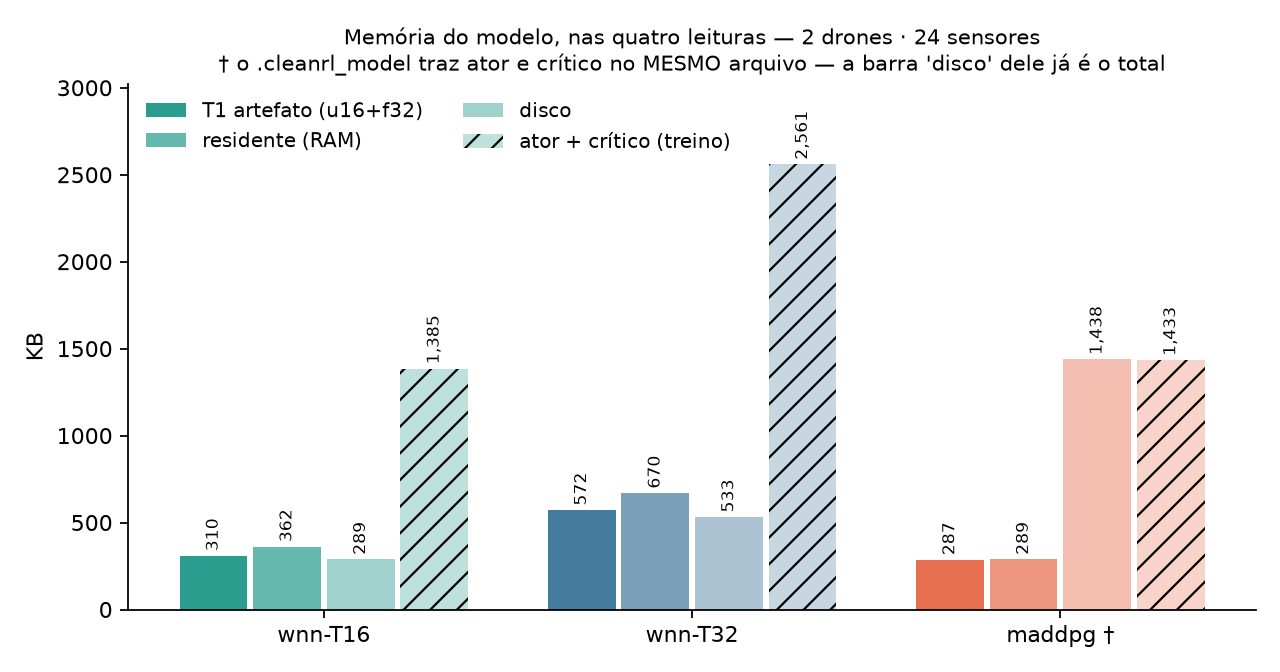
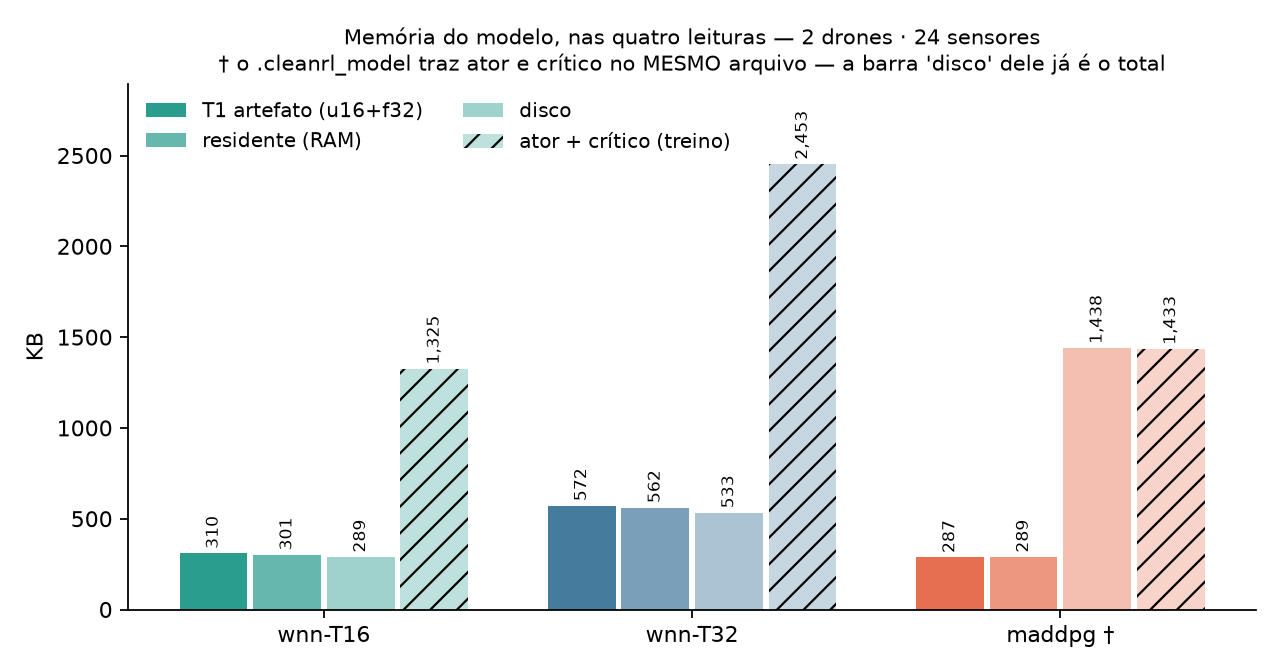
perf(memória): LUTPlana troca chaves int32 por bitmap + rank — sem perda nenhuma
A chave de uma tabela com 2^n posições tem exatamente 2^n bits de informação
POR RAM, não 32 por entrada. A estrutura nova:

    ocupacao  uint64 (N, 2^n/64)   um bit por posição
    rank      uint32 (N, 2^n/64)   entradas antes de cada palavra
    valores   float32 (occ, d)     empacotados, MESMA ordem de antes

A posição no vetor de valores é o rank — prefixo por palavra + um popcount
(np.bitwise_count) — em O(1), sem busca binária. No T16 a2s24: 88 KB de chaves
int32 viram 28 KB de ocupação+rank.

BIT A BIT, verificado em quatro camadas antes do commit:
  * referências da LUTPlana antiga em 7 deploys (prever + consulta fundida
    sobre observações com padding): zero divergências — a garantia vem da
    ordem: os valores empacotam RAM-crescente/endereço-crescente, exatamente a
    ordem da chave global antiga, então o np.sum vê as mesmas linhas na mesma
    sequência;
  * 60/60 episódios gravados da campanha reproduzem idênticos;
  * suíte inteira (399);
  * latência não piora: 15,7 µs mediana (era 15,8) — popcount O(1) contra
    busca binária de ~15 passos.

Os dois testes que pinavam a representação antiga (dtype/ordenação das chaves,
mensagem do guarda int32) foram atualizados para o contrato novo: bitmap
uint64, n_entradas == bits acesos, rank == prefixo dos popcounts, e a recusa
de tabela grande demais continua (agora pelo tamanho do bitmap — n=28 segue
recusado, pelo mesmo limite por outro motivo).

diff --git a/src/uavwnn/wnn/redes.py b/src/uavwnn/wnn/redes.py
@@ -573,15 +573,23 @@ class LUTPlana(_RedeNTupla):
     136 B (5,7× o conteúdo), mais 28 do `int` boxed e 37 do slot do dict. São
     259 mil objetos Python minúsculos, cada um com seu cabeçalho.
 
-    A ESTRUTURA
+    A ESTRUTURA — bitmap + rank, sem chave nenhuma
 
-        chaves   int32   (occ,)     chave GLOBAL = ram·2ⁿ + endereço, ORDENADA
-        valores  float32 (occ, d)
-        desloc   int32   (N,)       ram·2ⁿ, pré-computado
+        ocupacao  uint64  (N, 2ⁿ/64)  um BIT por posição da tabela
+        rank      uint32  (N, 2ⁿ/64)  nº de entradas antes de cada palavra
+        valores   float32 (occ, d)    empacotados em ordem RAM-crescente,
+                                      endereço-crescente
 
-    A chave global é o ponto: em vez de `N` tabelas separadas, **uma** ordenada.
-    Com `N = 72` e `n = 12` a chave máxima é 294 912 — cabe em `int32` com folga,
-    e o construtor recusa se não couber.
+    A primeira versão guardava a chave global `int32` de cada entrada e fazia
+    busca binária. Mas a chave de uma tabela com 2ⁿ posições tem exatamente
+    2ⁿ bits de informação POR RAM, não 32 por entrada: o bitmap diz quem existe
+    (512 B/RAM para n = 12), e a posição no vetor de valores é o RANK — quantos
+    bits acesos vêm antes — que uma tabela de prefixos por palavra + um popcount
+    (`np.bitwise_count`) resolvem em O(1), sem busca. Medido no T16 a2s24:
+    chaves int32 88 KB → ocupação+rank 28 KB, e a consulta fica mais rápida
+    (popcount contra busca binária de log₂ 22 453 ≈ 15 passos).
+
+    Assume plataforma little-endian (x86/ARM) na reconstrução da `memoria`.
 
     O GANHO, medido no ator de `T=32, Na=2, Ns=24` (129 664 entradas):
 
@@ -618,21 +626,29 @@ class LUTPlana(_RedeNTupla):
         self._pot_mat = rede._pot_mat
         self._n_passos = 0
 
-        desloc = 1 << self.tamanho_tupla
-        maximo = self.n_ram * desloc
-        if maximo >= 2**31:
+        slots = 1 << self.tamanho_tupla
+        if self.n_ram * slots >= 2**31:
             raise ValueError(
-                f"chave global máxima {maximo:,} não cabe em int32 "
-                f"(n_ram={self.n_ram}, tupla={self.tamanho_tupla})")
-        chaves, valores = [], []
+                f"tabela com {self.n_ram * slots:,} posições — o bitmap "
+                f"passaria de 256 MB (n_ram={self.n_ram}, "
+                f"tupla={self.tamanho_tupla})")
+        palavras = (slots + 63) >> 6
+        self.ocupacao = np.zeros((self.n_ram, palavras), np.uint64)
+        valores = []
+        um = np.uint64(1)
         for i, m in enumerate(rede.memoria):
-            for k in sorted(m):                       # ORDENADO por RAM, e as
-                chaves.append(i * desloc + k)         # RAMs em ordem crescente
-                valores.append(m[int(k)])             # → o vetor global já sai
-        self.chaves = np.asarray(chaves, np.int32)    #   ordenado, sem sort
+            for k in sorted(m):                       # RAM-crescente, endereço-
+                k = int(k)                            # crescente: a MESMA ordem
+                self.ocupacao[i, k >> 6] |= um << np.uint64(k & 63)
+                valores.append(m[k])                  # da chave global de antes
         self.valores = (np.asarray(valores, dtype_valor).reshape(-1, self.n_saidas)
                         if valores else np.zeros((0, self.n_saidas), dtype_valor))
-        self._desloc = (np.arange(self.n_ram) * desloc).astype(np.int32)
+        pc = np.bitwise_count(self.ocupacao).astype(np.int64)
+        acum = np.cumsum(pc.ravel())
+        self.n_entradas = int(acum[-1]) if acum.size else 0
+        self.rank = np.concatenate(
+            [[0], acum[:-1]]).astype(np.uint32).reshape(self.n_ram, palavras)
+        self._arange_ram = np.arange(self.n_ram)
 
     def prever(self, bits: NDArray[np.bool_]) -> NDArray[np.float64]:
         """Eq. (4.12), com busca binária vetorizada. `(M, B) -> (M, d)`.
@@ -642,13 +658,16 @@ class LUTPlana(_RedeNTupla):
         """
         end = self.enderecos(bits)
         saida = np.zeros((end.shape[0], self.n_saidas))
-        if self.chaves.size:
+        if self.n_entradas:
+            um = np.uint64(1)
             for m, linha in enumerate(end):
-                g = self._desloc + linha.astype(np.int32)
-                j = np.minimum(np.searchsorted(self.chaves, g), self.chaves.size - 1)
-                ok = self.chaves[j] == g
+                w, b = linha >> np.uint64(6), linha & np.uint64(63)
+                palavra = self.ocupacao[self._arange_ram, w]
+                ok = (palavra >> b) & um != 0
+                pos = (self.rank[self._arange_ram, w]
+                       + np.bitwise_count(palavra & ((um << b) - um)))
                 if ok.any():
-                    saida[m] = self.valores[j[ok]].sum(axis=0, dtype=np.float64)
+                    saida[m] = self.valores[pos[ok]].sum(axis=0, dtype=np.float64)
         return saida / self.n_ram if self.convencao == "media" else saida
 
     def consulta_do_vetor(self, dim_por_bit, limiar_por_bit):
@@ -676,10 +695,12 @@ class LUTPlana(_RedeNTupla):
         lim = np.concatenate([np.asarray(limiar_por_bit, float),
                               [np.inf]])[self._tuplas]
         pot = self._pot_mat
-        chaves, valores, desloc = self.chaves, self.valores, self._desloc
-        tam, n_saidas = chaves.size, self.n_saidas
+        ocupacao, rank, valores = self.ocupacao, self.rank, self.valores
+        arange_ram, tem = self._arange_ram, self.n_entradas > 0
+        n_saidas = self.n_saidas
         divisor = self.n_ram if self.convencao == "media" else 1
         d_obs = int(np.asarray(dim_por_bit).max()) + 1
+        um, seis, m63 = np.uint64(1), np.uint64(6), np.uint64(63)
 
         def consulta(v):
             if v.size != d_obs:
@@ -687,12 +708,14 @@ class LUTPlana(_RedeNTupla):
                                  f"esperado {d_obs}")
             addr = ((v[dim] >= lim) * pot).sum(axis=1)
             saida = np.zeros(n_saidas)
-            if tam:
-                g = desloc + addr.astype(np.int32)
-                j = np.minimum(np.searchsorted(chaves, g), tam - 1)
-                ok = chaves[j] == g
+            if tem:
+                w, b = addr >> seis, addr & m63
+                palavra = ocupacao[arange_ram, w]
+                ok = (palavra >> b) & um != 0
                 if ok.any():
-                    saida = valores[j[ok]].sum(axis=0, dtype=np.float64)
+                    pos = (rank[arange_ram, w]
+                           + np.bitwise_count(palavra & ((um << b) - um)))
+                    saida = valores[pos[ok]].sum(axis=0, dtype=np.float64)
             return saida / divisor
 
         return consulta
@@ -704,10 +727,17 @@ class LUTPlana(_RedeNTupla):
         Reconstrói dicionários — é caro, e de propósito: quem precisar disto num
         caminho quente está usando a estrutura errada.
         """
-        desloc = 1 << self.tamanho_tupla
-        saida = [{} for _ in range(self.n_ram)]
-        for k, v in zip(self.chaves.tolist(), self.valores):
-            saida[k // desloc][k % desloc] = v
+        # little-endian: os bytes da palavra uint64 saem em ordem crescente de
+        # bit com `bitorder="little"`, então o índice do bit é o endereço.
+        slots = 1 << self.tamanho_tupla
+        bits = np.unpackbits(self.ocupacao.view(np.uint8),
+                             bitorder="little").reshape(self.n_ram, -1)
+        saida, pos = [], 0
+        for i in range(self.n_ram):
+            idx = np.flatnonzero(bits[i, :slots])
+            saida.append({int(a): self.valores[pos + j]
+                          for j, a in enumerate(idx)})
+            pos += idx.size
         return saida
 
     def _imutavel(self, *_a, **_k):

diff --git a/tests/test_redes.py b/tests/test_redes.py
@@ -358,7 +358,7 @@ def test_lut_plana_e_equivalente_e_recusa_escrita():
     estrutura não introduz erro nenhum por si, só a escolha de precisão. Com
     `float32` o erro é o arredondamento do tipo, não da busca.
 
-    E ela tem de RECUSAR escrita: as chaves estão ordenadas e a busca binária
+    E ela tem de RECUSAR escrita: os valores estão empacotados pelo rank
     depende disso, então inserir exigiria reordenar. Degradar em silêncio seria
     pior que falhar.
     """
@@ -382,27 +382,30 @@ def test_lut_plana_e_equivalente_e_recusa_escrita():
     f32 = LUTPlana(rede)                      # padrão: float32
     np.testing.assert_allclose(f32.prever(prova), esperado, rtol=1e-6, atol=0)
 
-    # a estrutura interna: chaves globais, ordenadas
-    assert exata.chaves.dtype == np.int32
-    assert (np.diff(exata.chaves) > 0).all(), "chaves têm de estar ordenadas"
-    assert exata.chaves.size == sum(len(m) for m in rede.memoria)
+    # a estrutura interna: bitmap de ocupação + rank, sem chave nenhuma
+    assert exata.ocupacao.dtype == np.uint64
+    assert exata.n_entradas == sum(len(m) for m in rede.memoria)
+    assert int(np.bitwise_count(exata.ocupacao).sum()) == exata.n_entradas
+    # o rank de cada palavra é o total de bits acesos antes dela
+    pc = np.bitwise_count(exata.ocupacao).astype(np.int64).ravel()
+    assert np.array_equal(exata.rank.ravel()[1:], np.cumsum(pc)[:-1])
 
     for metodo in ("atualizar", "treinar", "salvar"):
         with pytest.raises(TypeError, match="imutável"):
             getattr(exata, metodo)(prova, np.zeros(3))
 
 
-def test_lut_plana_recusa_chave_grande_demais():
-    """`n_ram · 2ⁿ` precisa caber em `int32`. Estourar em silêncio daria
-    endereços negativos e uma rede que lê lixo sem levantar nada."""
-    import numpy as np
+def test_lut_plana_recusa_tabela_grande_demais():
+    """O bitmap tem um bit POR POSIÇÃO da tabela, então `n` grande explode a
+    ocupação mesmo vazia — a recusa explícita evita alocar centenas de MB em
+    silêncio (com chaves int32 o limite era o mesmo, por outro motivo)."""
     import pytest
 
     from uavwnn.wnn.redes import LUTPlana, RedeGradienteFuncional
 
-    # n = 28 → 2^28 por RAM; com ~9 RAMs já passa de 2^31
+    # n = 28 → 2^28 posições por RAM; com ~9 RAMs o bitmap passaria de 256 MB
     rede = RedeGradienteFuncional(n_bits=256, tamanho_tupla=28, n_saidas=1)
-    with pytest.raises(ValueError, match="int32"):
+    with pytest.raises(ValueError, match="bitmap"):
         LUTPlana(rede)
 
 

diff --git a/scripts/spec03_latencia_memoria.py b/scripts/spec03_latencia_memoria.py
@@ -119,7 +119,7 @@ def _filho_wnn(na: int, ns: int, t_res: int) -> dict:
     from uavwnn.encoding import TermometroQuantil
     termo = TermometroQuantil.carregar(ckpt / "termometro.npz")
     lut = ap.ator
-    arrays = (lut.chaves, lut.valores, lut._desloc, lut._tuplas, lut._pot_mat,
+    arrays = (lut.ocupacao, lut.rank, lut.valores, lut._tuplas, lut._pot_mat,
               termo.limiares)
     vivos_kb = sum(a.nbytes for a in arrays) / 1024
 
@@ -159,7 +159,7 @@ def _filho_wnn(na: int, ns: int, t_res: int) -> dict:
             "rss_modelo_kb": rss_carregado - rss_imports,
             "arrays_vivos_kb": vivos_kb,
             "disco_kb": sum(f.stat().st_size for f in ckpt.iterdir()) / 1024,
-            "params": int(lut.chaves.size)}
+            "params": int(lut.n_entradas)}
 
 
 def _filho_maddpg(na: int, ns: int) -> dict:

diff --git a/scripts/spec03_custo_comparado.py b/scripts/spec03_custo_comparado.py
@@ -61,7 +61,7 @@ def medir_wnn(rot: str, na: int, ns: int) -> dict | None:
     gc.collect(); depois = rss_mb()
 
     n_ram, n_tup = ap.ator.n_ram, ap.ator.tamanho_tupla
-    occ = ap.ator.chaves.size
+    occ = ap.ator.n_entradas
     d_obs = cfg.observation_size
     cm = custo_ntuple_de_rede(ap.ator, variante="ordenado", limiares_por_dim=T,
                               n_dims=d_obs, rotulo=rot)

diff --git a/reports/spec03-latencia-memoria-a2s24.md b/reports/spec03-latencia-memoria-a2s24.md
@@ -6,20 +6,20 @@ Gerado por `scripts/spec03_latencia_memoria.py` em 2026-08-27 · x86_64 · mesma
 
 | modelo | mediana | p99 |
 | --- | --- | --- |
-| wnn-T16 | 15.8 µs | 35.3 µs |
-| wnn-T32 | 18.6 µs | 38.9 µs |
-| maddpg | 44.0 µs | 79.0 µs |
+| wnn-T16 | 21.2 µs | 48.4 µs |
+| wnn-T32 | 23.5 µs | 48.1 µs |
+| maddpg | 43.8 µs | 99.2 µs |
 
-- wnn-T16 é **2.8×** mais rápida que o MADDPG
+- wnn-T16 é **2.1×** mais rápida que o MADDPG
 
-- wnn-T32 é **2.4×** mais rápida que o MADDPG
+- wnn-T32 é **1.9×** mais rápida que o MADDPG
 
 ## Memória, nas quatro leituras (KB)
 
 | modelo | T1 artefato | residente (RAM) | disco | ator + crítico |
 | --- | --- | --- | --- | --- |
-| wnn-T16 | 310 | 362 | 289 | 1,385 |
-| wnn-T32 | 572 | 670 | 533 | 2,561 |
+| wnn-T16 | 310 | 301 | 289 | 1,325 |
+| wnn-T32 | 572 | 562 | 533 | 2,453 |
 | maddpg † | 287 | 289 | 1,438 | 1,433 |
 
 - **T1 artefato**: chave `uint16` + valores `float32` — a definição da SPEC-03, comparável com as demais tabelas do projeto;
@@ -33,7 +33,7 @@ Gerado por `scripts/spec03_latencia_memoria.py` em 2026-08-27 · x86_64 · mesma
 | --- | --- |
 | wnn-T16 | 17 MB |
 | wnn-T32 | 17 MB |
-| maddpg | 479 MB |
+| maddpg | 482 MB |
 
 ![tempos](spec03-latencia-a2s24.png)
 ![memória](spec03-memoria-a2s24.png)
